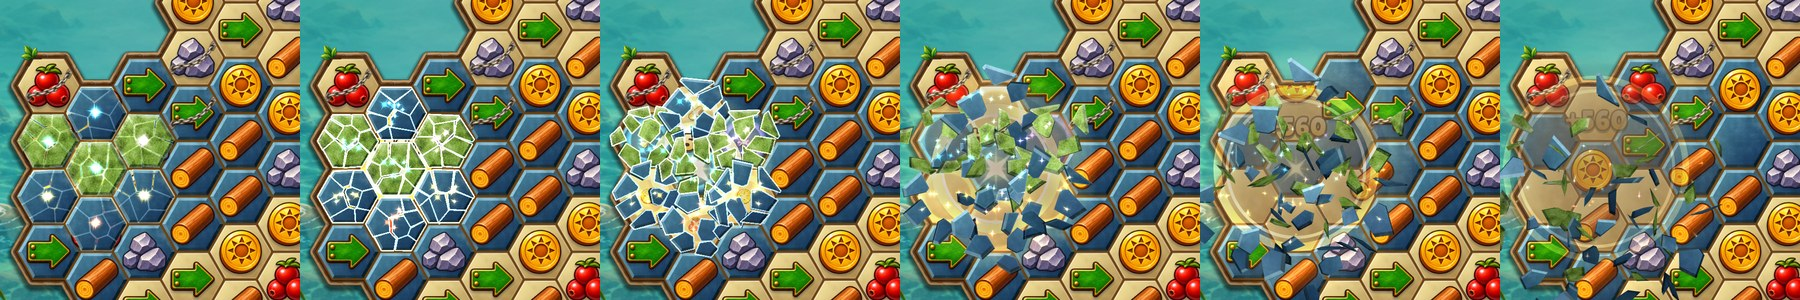
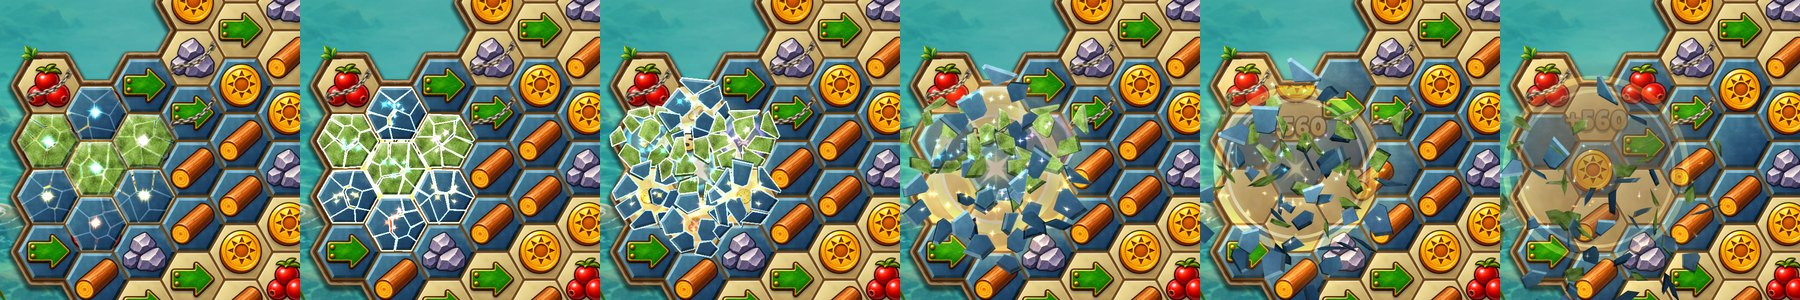
Fade shattered pieces out 30% sooner
Shards lived 0.62-0.95 s and fell well below their cell. They now live
0.43-0.67 s, so they vanish around the blast.

diff --git a/games/relic-rush/docs/asset-catalogue.md b/games/relic-rush/docs/asset-catalogue.md
@@ -590,7 +590,7 @@ pause, guide and the island.
 | CLEAR | Existing artwork expands briefly, then shrinks and fades; a blocked hit keeps the piece |
 | FALL | Existing gem artwork follows engine gravity, then squashes and rebounds briefly on contact with its resting slot (`engine/match3.lua`). Reduced motion omits the bounce. Capture with `build/test/all --suite=relic-rush 'reel relic-rush-top-edge-refill'`. |
 | Last tablets | Cradle of Rome 2's original `Star_02_16.png` and `Star_16.png` are packed unchanged as `fx-tablet-glow` and `fx-tablet-spark` in `data/match3.png`. `engine/match3_vfx.lua` sweeps them clockwise along the bevel over a soft blue wash. One to three tablets receive the first pulse with the move suggestion. The cue repeats every nine seconds until board input. Reduce Motion hides it. Reproduce the phone captures with `build/test/all --suite=relic-rush 'reel relic-rush-tablet-hints'`. [Source and extraction](../../../docs/cradle-of-rome-reference/README.md#last-puzzle-tile-glow). |
-| Layer break | A hit that removes ice, a double tablet's green face or a blue tablet breaks that layer's own art (`tile-ice`, `tile-tablet-double`, `tile-tablet-single`, or the `oil-material` hex sample on undressed levels) into about eight Voronoi shards (`engine/match3_shatter.lua`). Cracks glow, then shards burst, tumble with a darker side face and fall over about 0.8 s, above a puff of earth-coloured dust. Procedural cut-outs of existing art, no new bitmaps or states; Reduce Motion hides it. Capture with `build/test/all --suite=relic-rush 'reel fx-shatter'` (`--fx shatter`). [Reviewed frames](screenshots/review/shatter/fx-shatter-480x900.jpg). |
+| Layer break | A hit that removes ice, a double tablet's green face or a blue tablet breaks that layer's own art (`tile-ice`, `tile-tablet-double`, `tile-tablet-single`, or the `oil-material` hex sample on undressed levels) into about eight Voronoi shards (`engine/match3_shatter.lua`). Cracks glow, then shards burst, tumble with a darker side face and fall over about 0.55 s, above a puff of earth-coloured dust. Procedural cut-outs of existing art, no new bitmaps or states; Reduce Motion hides it. Capture with `build/test/all --suite=relic-rush 'reel fx-shatter'` (`--fx shatter`). [Reviewed frames](screenshots/review/shatter/fx-shatter-480x900.jpg). |
 | Special birth | Existing authored special plus transient halo/sparks |
 | Attack | Procedural travelling rays, bomb rings, prism links and combo effects |
 | Collection | Removed resources fly to their matching wallet capsule with a trail; story pieces do not earn resources |

diff --git a/docs/MATCH3_ENGINE.md b/docs/MATCH3_ENGINE.md
@@ -219,7 +219,7 @@ At bind it makes eight Voronoi fractures of the unit hex; each break picks one
 and one of the hex's twelve symmetries. The pieces are cut from the layer's
 texture with `gfx.image_poly`. Cracks glow for 0.07 s, then the shards burst outwards,
 spin and tumble (a darker side face shows their thickness), fall under gravity
-and fade over about 0.8 s above a puff of earth-coloured dust (`S.DUST`). No
+and fade over about 0.55 s above a puff of earth-coloured dust (`S.DUST`). No
 art is baked, so new tile art and packs shatter unchanged.
 `E.layer_art` names the art `E.ground` paints, and a game's `R.board_floor()`
 returns the floor dress both use. Reduce Motion shows nothing. Review it
